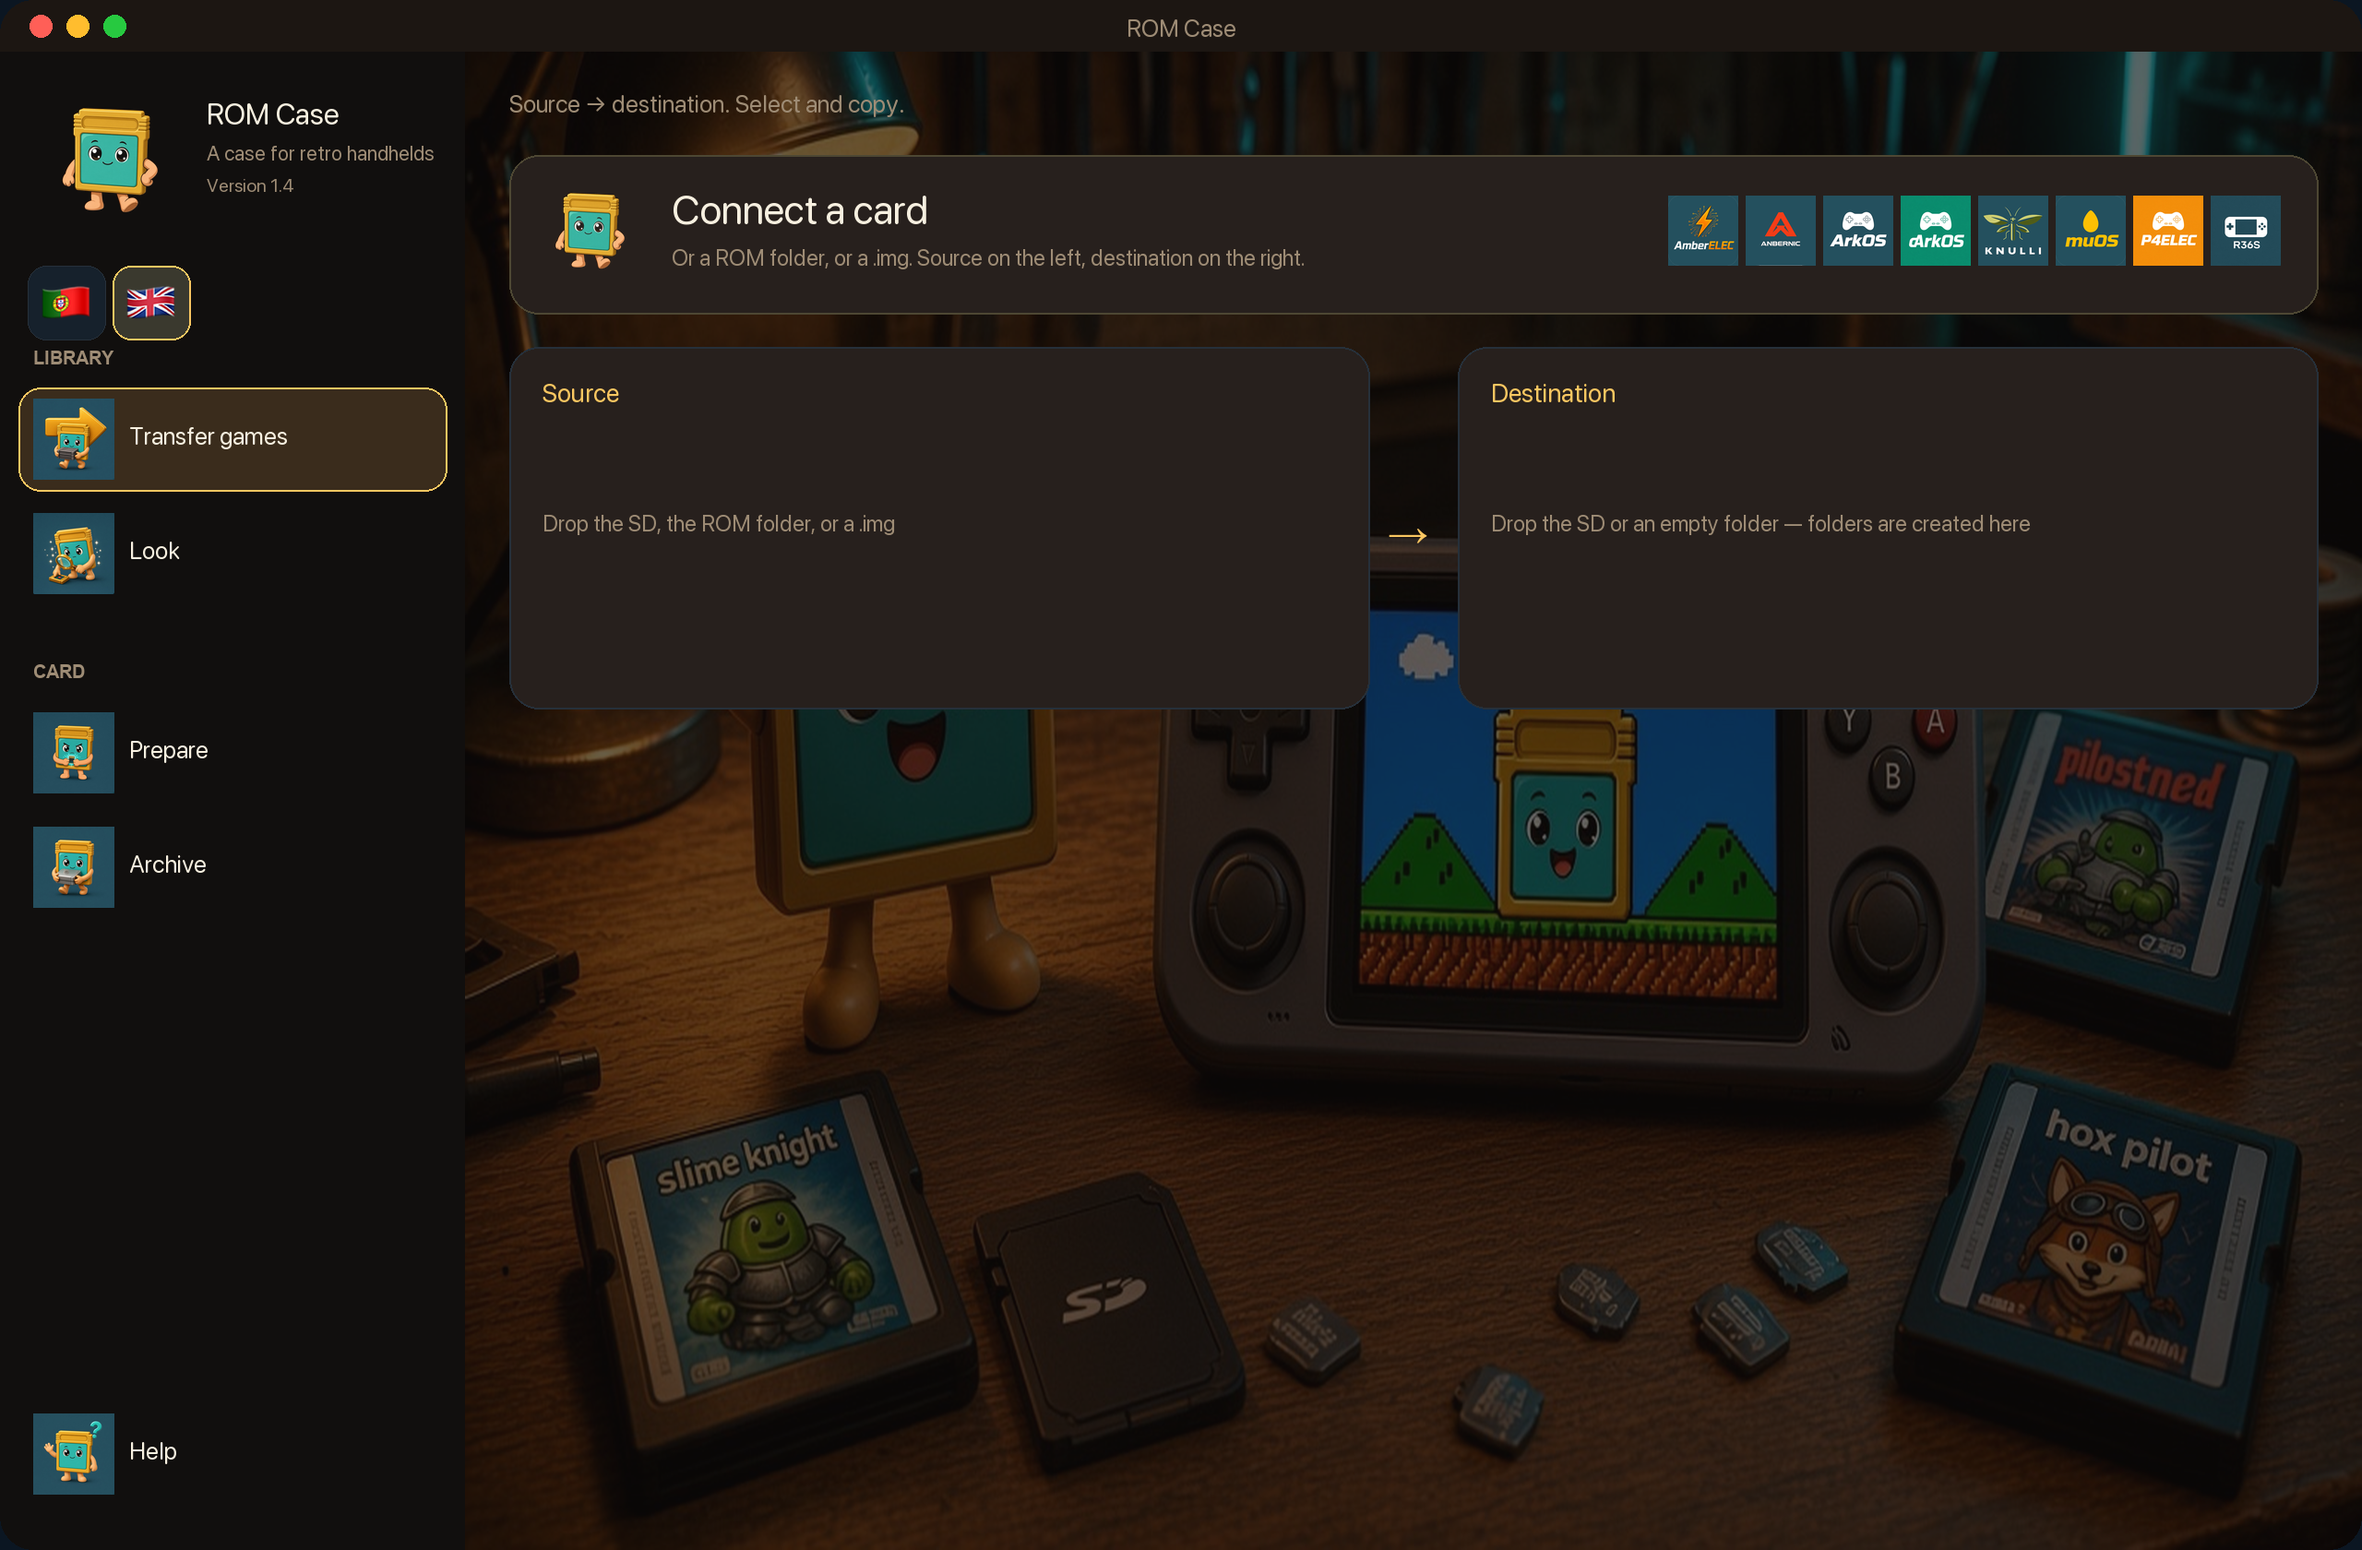
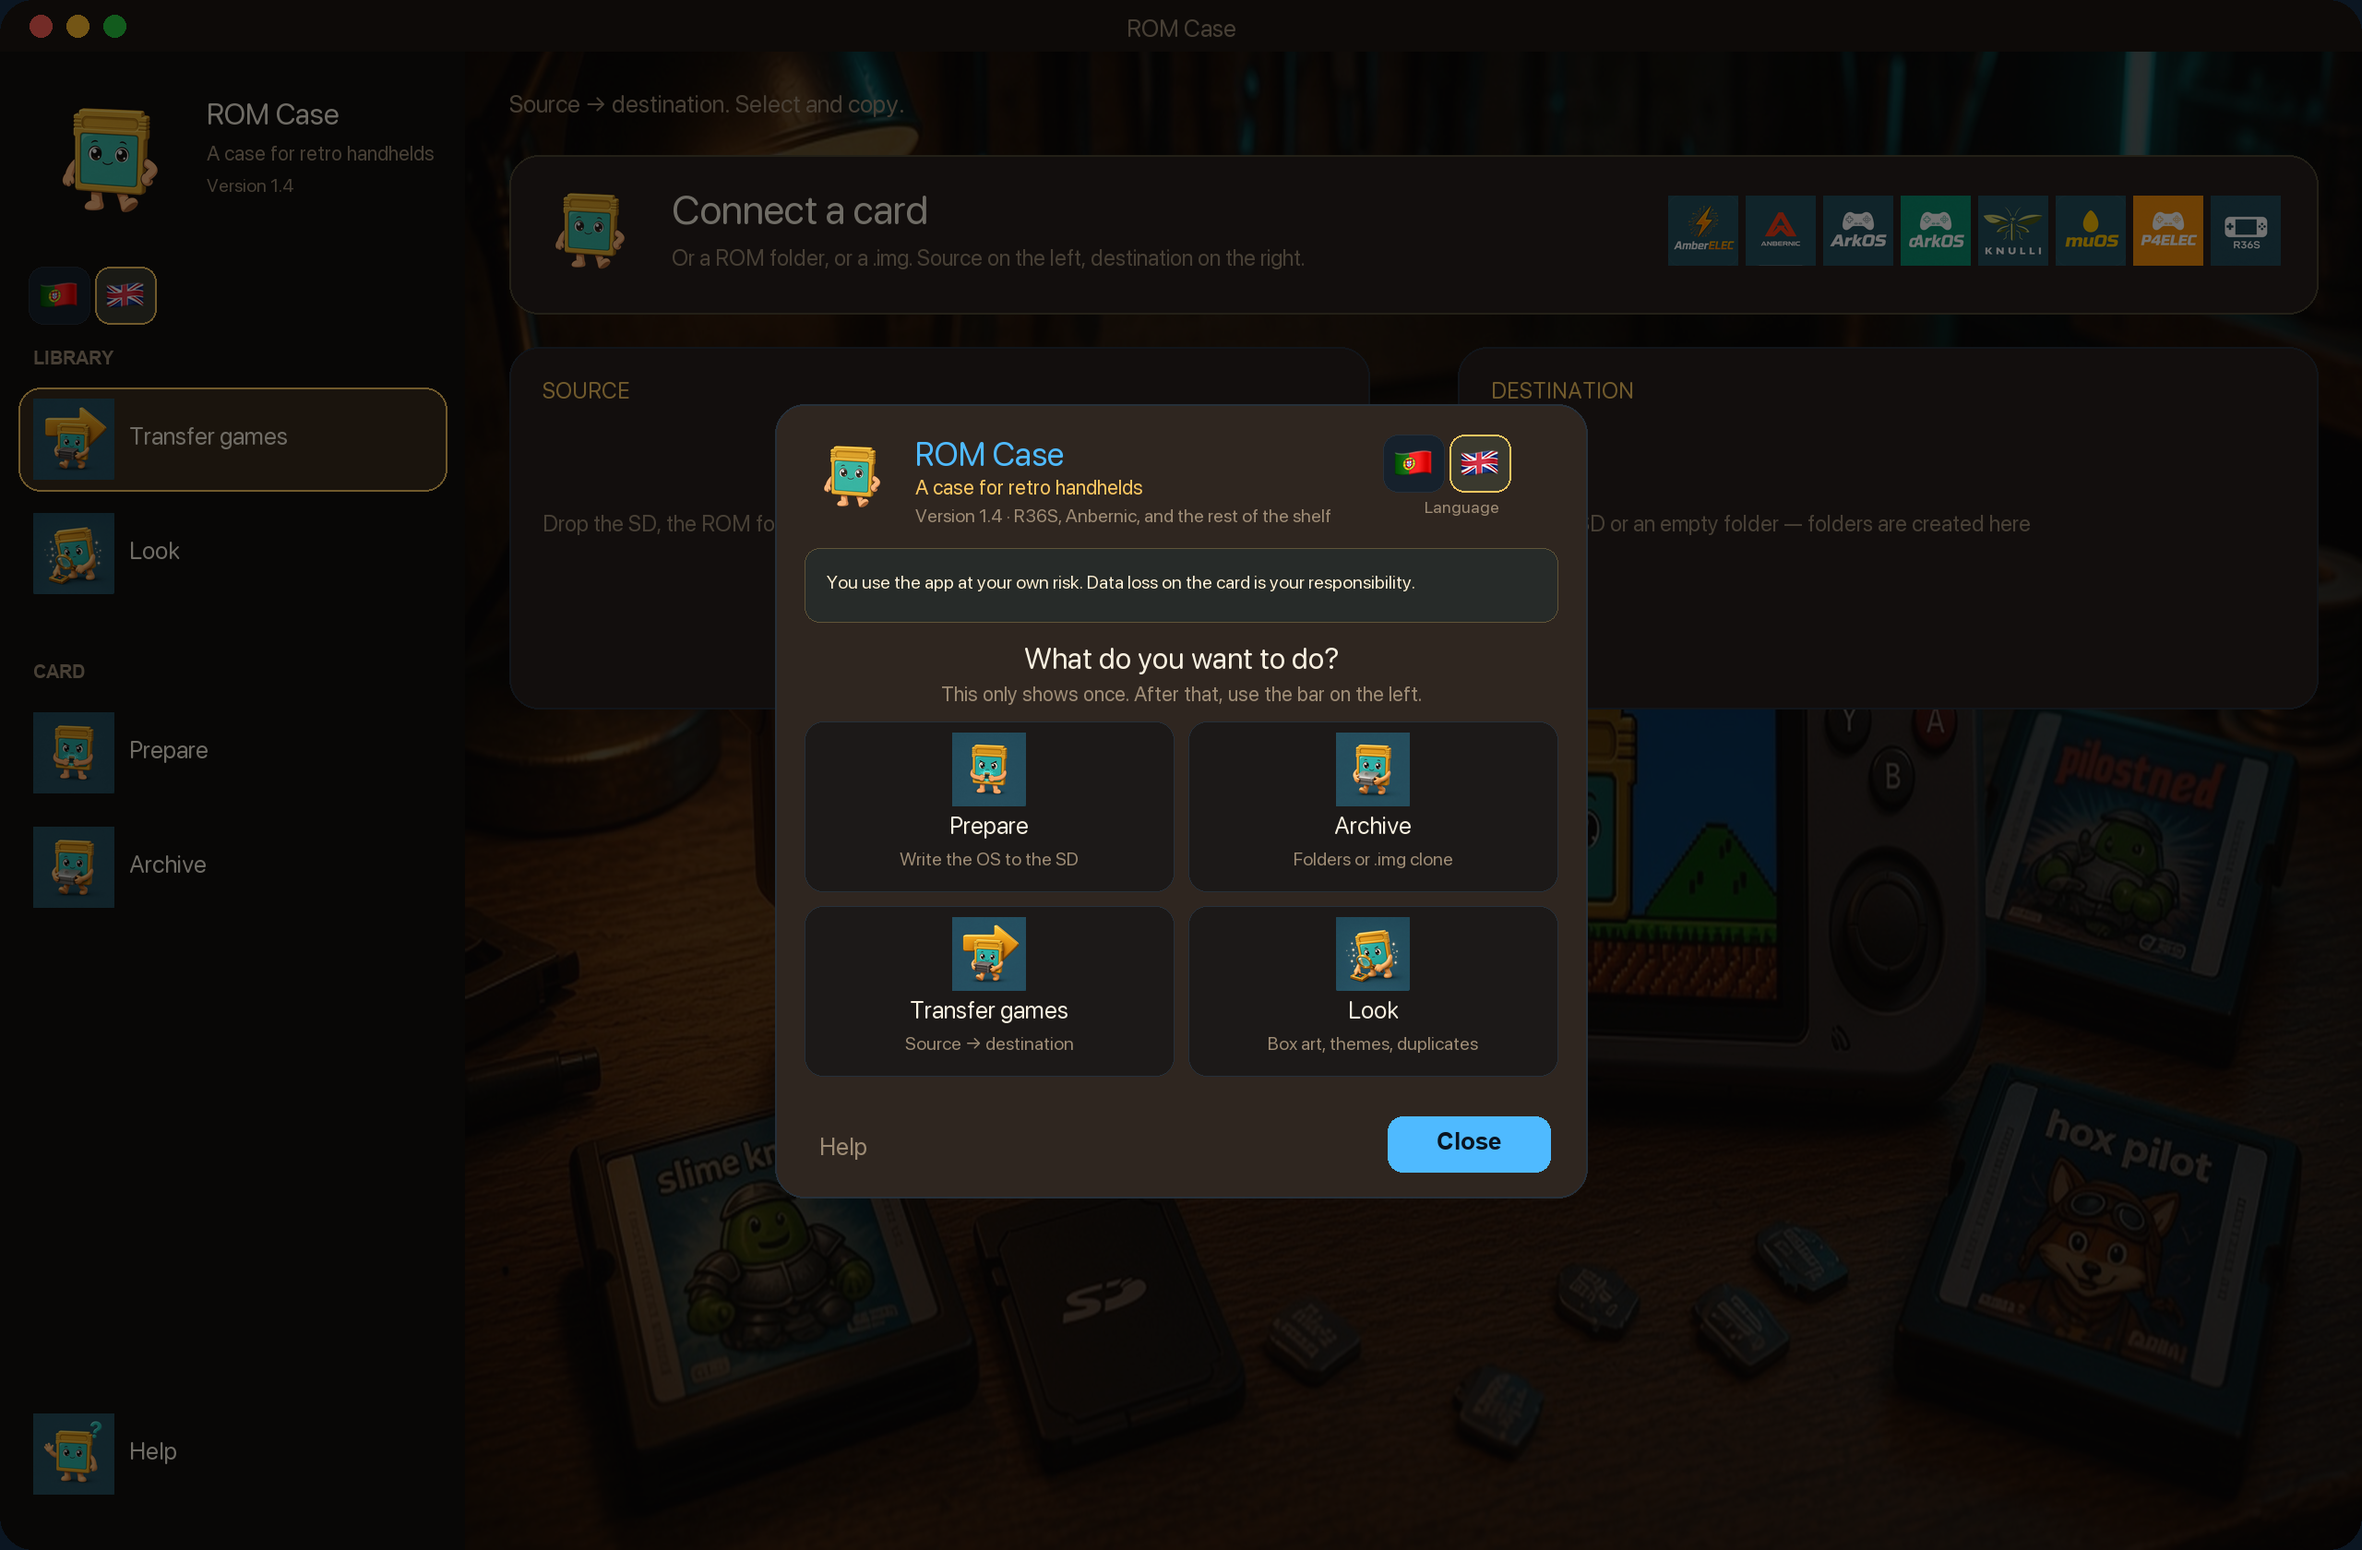
Show the 1.4 modules on the download page.

diff --git a/README.pt.md b/README.pt.md
@@ -73,6 +73,20 @@
   <sub>Português · English</sub>
 </p>
 
+<p align="center">
+  <img src="Resources/github/screenshots/transfer-pt.png" width="430" alt="Passar jogos">
+  &nbsp;
+  <img src="Resources/github/screenshots/prepare-pt.png" width="430" alt="Preparar cartão">
+</p>
+<p align="center">
+  <img src="Resources/github/screenshots/look-pt.png" width="430" alt="Boxart">
+  &nbsp;
+  <img src="Resources/github/screenshots/archive-pt.png" width="430" alt="Arquivo">
+</p>
+<p align="center">
+  <sub>Passar jogos · Preparar · Boxart · Arquivo</sub>
+</p>
+
 ---
 
 ## O que é

diff --git a/README.md b/README.md
@@ -73,6 +73,20 @@
   <sub>Portuguese · English</sub>
 </p>
 
+<p align="center">
+  <img src="Resources/github/screenshots/transfer-en.png" width="430" alt="Transfer games">
+  &nbsp;
+  <img src="Resources/github/screenshots/prepare-en.png" width="430" alt="Prepare card">
+</p>
+<p align="center">
+  <img src="Resources/github/screenshots/look-en.png" width="430" alt="Box art">
+  &nbsp;
+  <img src="Resources/github/screenshots/archive-en.png" width="430" alt="Archive">
+</p>
+<p align="center">
+  <sub>Transfer · Prepare · Box art · Archive</sub>
+</p>
+
 ---
 
 ## What it is
